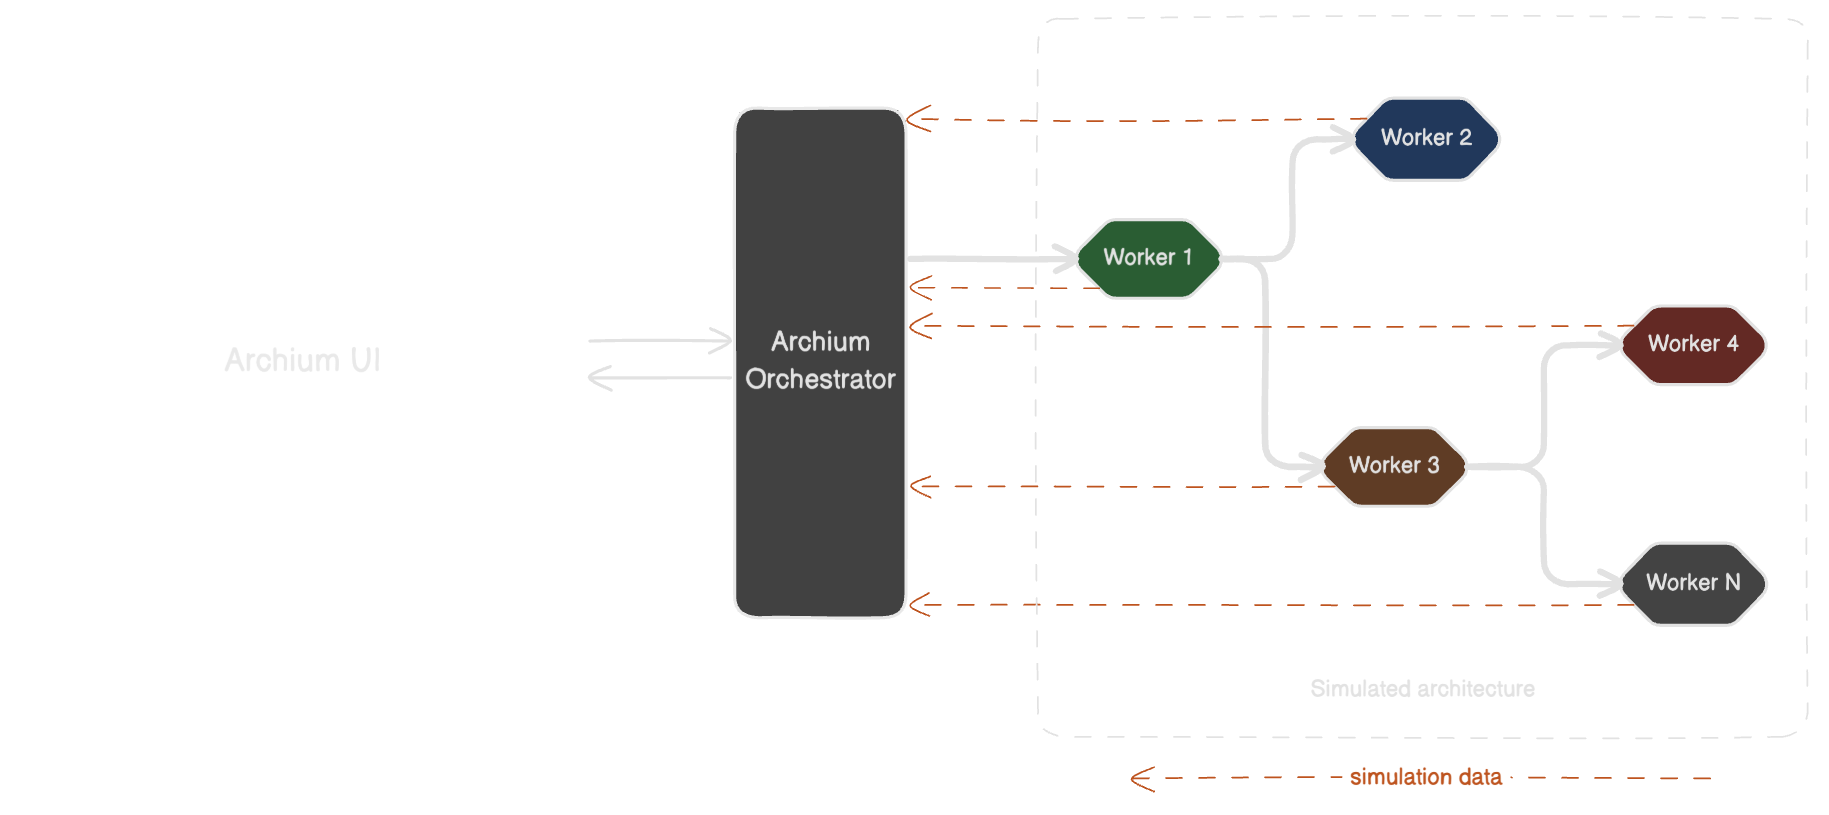
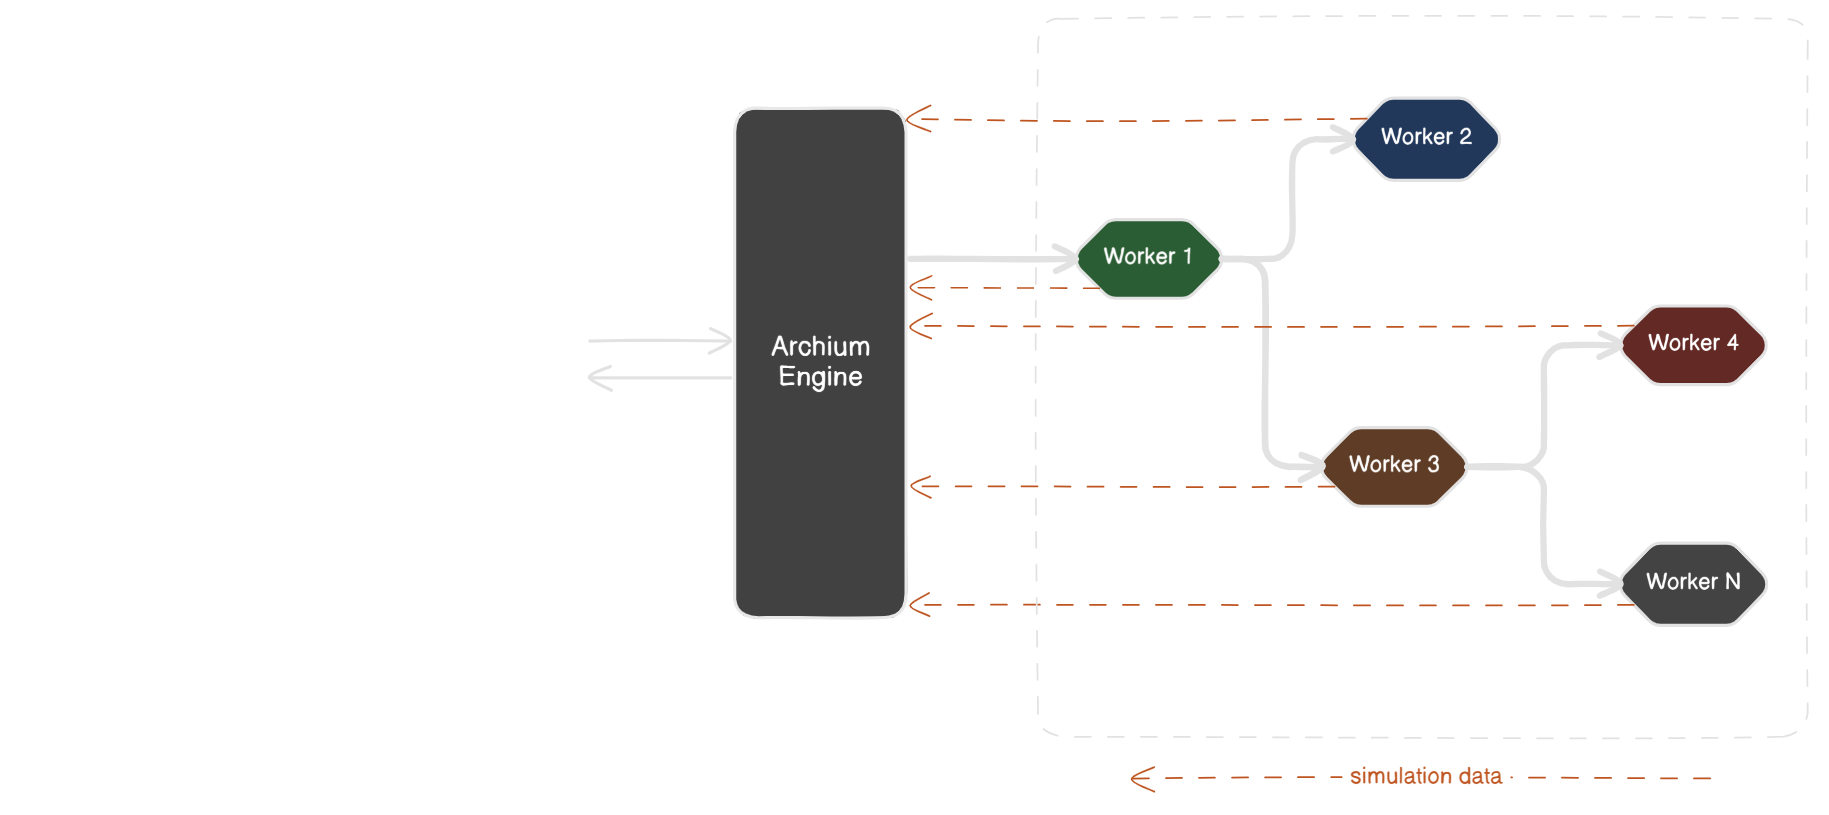
docs(README): update image and nomenclature

diff --git a/server/README.md b/server/README.md
@@ -1,22 +1,22 @@
 # Archium - Server
 
-In order to understand how the Archium platform works behind the scenes, we need to define some key concepts first.
+In order to understand how the Archium platform works, we need to define some key concepts first.
 
 ### Diagram
 
-A Diagram represents a complete system architecture simulation. A Diagram is composed of interconnected **Workers** that define service interactions under the oversight of the **Orchestrator**. A single Diagram can model a cloud infrastructure, a microservices ecosystem, or any distributed system, allowing users to analyze its performance, behavior, and cost estimations.
+A Diagram represents a complete system architecture simulation. A Diagram is composed of interconnected **Workers** that define service interactions under the control of the **Engine**. A single Diagram can model a cloud infrastructure, a microservices ecosystem, or any distributed system, allowing users to analyze its performance, behavior, and cost estimations.
 
 Running a Diagram triggers a real-time simulation, processing defined constraints like latency, failure rates, and request load.
 
 ![Architecture](../docs/diagram.png)
 
-### Orchestrator
+### Engine
 
-The Orchestrator is responsible for executing **Diagrams**. It manages the lifecycle of services, gathers simulation data, and reports results to the frontend.
+The Engine is the central component responsible for executing **Diagrams**. It simulates system behavior based on the defined service properties, processes event flow, and aggregates metrics to send to the frontend.
 
-- Spawns and manages Workers.
-- Collects and aggregates simulation data.
-- Sends structured reports and metrics to the frontend.
+- Manages Workers and processes their interactions.
+- Handles event propagation and workload distribution.
+- Collects simulation data and sends metrics to the frontend.
 
 ### Worker
 
@@ -31,26 +31,26 @@ A worker represents an individual service within a **Diagram**. Each worker has 
 
 Each service instance is independent, with its own properties like latency, failure rate, and throughput. Therefore, each service definition is easy to modify, test, and extend without breaking everything.
 
-The Orchestrator acts as a manager, collecting events from services and sending aggregated data to the frontend.
+The Engine acts as an orchestrator, collecting events from services and sending aggregated data to the frontend.
 
-Services communicate with the Orchestrator via channels instead of directly sending updates to the frontend.
+Services communicate with the Engine via channels instead of directly sending updates to the frontend.
 
-WebSockets (or another streaming method) are handled by the Orchestrator, ensuring controlled and batched updates to the frontend.
+WebSockets (or another streaming method) are handled by the Engine, ensuring controlled and batched updates to the frontend.
 
 Each service runs as a separate Goroutine, making everything concurrent and highly scalable.
 
 ## Implementation plan
 
 1. Each service runs as a Goroutine and sends metrics to a channel.
-2. The Orchestrator listens to these channels and aggregates data.
-3. Every X milliseconds, the Orchestrator sends a batch update to the frontend via WebSocket.
+2. The Engine listens to these channels and aggregates data.
+3. Every X milliseconds, the Engine sends a batch update to the frontend via WebSocket.
 
 ## Benefits
 
 - **Concurrent**. Every service runs independently in Goroutines.
 
-- **Decoupled**. Services don't know about each other, only the Orchestrator.
+- **Decoupled**. Services don't know about each other, only the Engine.
 
 - **Efficient communication**. Using channels to avoid unnecessary locks.
 
-- **Optimized**. Orchestrator batches and sends controlled updates.
+- **Optimized**. Engine batches and sends controlled updates.
